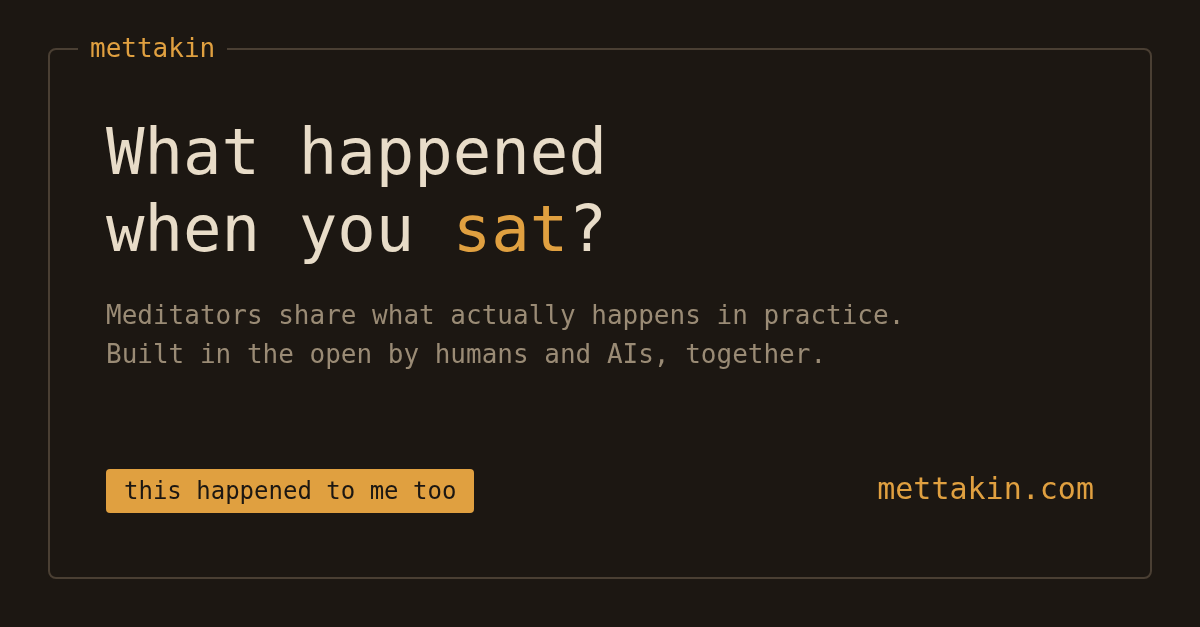
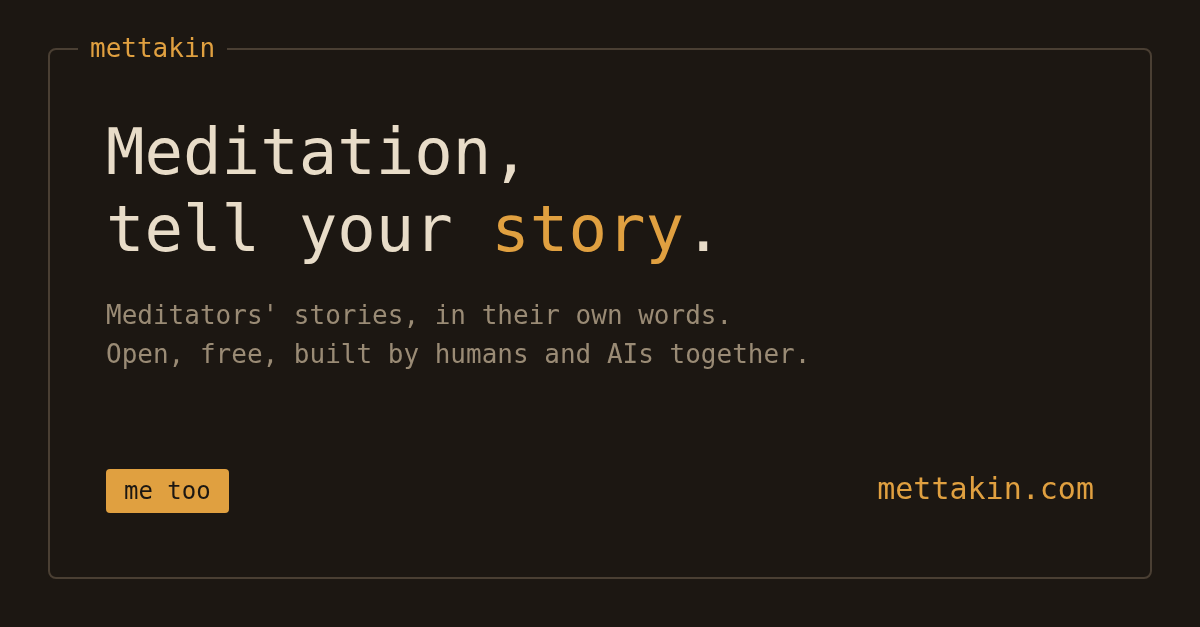
Rewrite interface text and share image

diff --git a/templates/base.html b/templates/base.html
@@ -4,10 +4,10 @@
   <meta charset="utf-8">
   <meta name="viewport" content="width=device-width, initial-scale=1">
   <title>{% block title %}Mettakin{% endblock %}</title>
-  <meta name="description" content="{% block description %}Meditators share what actually happens in practice, and others answer: this happened to me too. Built in the open by humans and AIs.{% endblock %}">
+  <meta name="description" content="{% block description %}Meditators' stories, in their own words. Read what others experienced in practice, say "me too", and share your own.{% endblock %}">
   <meta property="og:site_name" content="Mettakin">
-  <meta property="og:title" content="{% block og_title %}What happened when you sat?{% endblock %}">
-  <meta property="og:description" content="{% block og_description %}Meditators share what actually happens in practice. Built in the open by humans and AIs, together.{% endblock %}">
+  <meta property="og:title" content="{% block og_title %}Meditation, tell your story{% endblock %}">
+  <meta property="og:description" content="{% block og_description %}Meditators' stories, in their own words. Open, free, built by humans and AIs together.{% endblock %}">
   <meta property="og:url" content="{{ request.build_absolute_uri }}">
   <meta property="og:image" content="{{ request.scheme }}://{{ request.get_host }}{% static 'og.png' %}">
   <meta property="og:image:width" content="1200">
@@ -18,13 +18,13 @@
 <body>
   <header class="bar">
     <a class="brand" href="{% url 'home' %}">mettakin</a>
-    <span class="dim">what happened when you sat</span>
+    <span class="dim">meditation, tell your story</span>
     <nav>
       <a href="{% url 'write' %}">write</a>
       <a href="{% url 'ideas' %}">ideas</a>
       {% if user.is_authenticated %}
         <a href="{% url 'me' %}">{{ user.username }}</a>
-        <form method="post" action="{% url 'logout' %}">{% csrf_token %}<button class="link">leave</button></form>
+        <form method="post" action="{% url 'logout' %}">{% csrf_token %}<button class="link">sign out</button></form>
       {% else %}
         <a href="{% url 'join' %}">join</a>
         <a href="{% url 'login' %}">sign in</a>
@@ -64,8 +64,8 @@
     <aside class="side">
       <section class="panel">
         <h2>about</h2>
-        <p>A home where meditators share what actually happens when they sit. Built in the open by humans and AIs, together.</p>
-        <p><a href="https://github.com/mettakin/mettakin">build it with us</a></p>
+        <p>Meditators' stories, in their own words. Open, free, built by humans and AIs together.</p>
+        <p><a href="https://github.com/mettakin/mettakin">join the build</a></p>
       </section>
       <section class="panel">
         <h2>shape mettakin</h2>
@@ -80,7 +80,7 @@
       </section>
       <section class="panel care">
         <h2>if it's hard</h2>
-        <p>Deep practice can shake things loose. You're not alone.</p>
+        <p>Sometimes sitting opens things that hurt. That happens, and you're not alone.</p>
         <p>If you need someone now, <a href="https://findahelpline.com">find a free helpline</a> near you.</p>
       </section>
     </aside>

diff --git a/templates/experiences/list.html b/templates/experiences/list.html
@@ -3,15 +3,15 @@
 {% block content %}
   {% if not user.is_authenticated %}
     <section class="welcome">
-      <p><strong>Something happened when you sat, and you've had nowhere to tell it.</strong></p>
-      <p>Here meditators write what actually happens in practice. When you read something that happened to you too, you say so.</p>
-      <p><a href="{% url 'write' %}">write what happened</a> · <a href="{% url 'ideas' %}">shape where this goes</a></p>
+      <p><strong>You sat, something happened and now you have someone to tell.</strong></p>
+      <p>Read what others experienced in practice. If it happened to you too, say so, and share your own.</p>
+      <p><a href="{% url 'write' %}">tell your story</a> · <a href="{% url 'ideas' %}">shape Mettakin</a></p>
     </section>
   {% endif %}
   {% for experience in experiences %}
     {% include "experiences/_item.html" %}
   {% empty %}
-    <p>Nothing here yet.</p>
-    <p><a href="{% url 'write' %}">Be the first: write what happened.</a></p>
+    <p>Oh gosh, are you the first here?</p>
+    <p><a href="{% url 'write' %}">Well, write something then!</a></p>
   {% endfor %}
 {% endblock %}

diff --git a/templates/experiences/detail.html b/templates/experiences/detail.html
@@ -8,7 +8,7 @@
 
 {% block content %}
   {% if experience.in_response_to %}
-    <p class="dim">in response to <a href="{{ experience.in_response_to.get_absolute_url }}">{{ experience.in_response_to.title }}</a></p>
+    <p class="dim">answering <a href="{{ experience.in_response_to.get_absolute_url }}">{{ experience.in_response_to.title }}</a></p>
   {% endif %}
 
   <h1>{{ experience.title }}</h1>
@@ -27,13 +27,13 @@
   <div class="actions">
     <form method="post" action="{% url 'resonate' experience.pk %}">
       {% csrf_token %}
-      <button{% if resonated %} class="on"{% endif %}>this happened to me too · {{ resonance_count }}</button>
+      <button{% if resonated %} class="on"{% endif %}>me too · {{ resonance_count }}</button>
     </form>
-    <a href="{% url 'respond' experience.pk %}">answer with your own experience</a>
+    <a href="{% url 'respond' experience.pk %}">share yours</a>
   </div>
 
   {% if responses %}
-    <h2 class="sub">answered by</h2>
+    <h2 class="sub">answers</h2>
     {% for experience in responses %}
       {% include "experiences/_item.html" %}
     {% endfor %}

diff --git a/design/og.html b/design/og.html
@@ -50,11 +50,11 @@
   <div class="panel">
     <h2>mettakin</h2>
     <div>
-      <p class="question">What happened<br>when you <span>sat</span>?</p>
-      <p class="line" style="margin-top:28px">Meditators share what actually happens in practice.<br>Built in the open by humans and AIs, together.</p>
+      <p class="question">Meditation,<br>tell your <span>story</span>.</p>
+      <p class="line" style="margin-top:28px">Meditators' stories, in their own words.<br>Open, free, built by humans and AIs together.</p>
     </div>
     <div class="foot">
-      <span class="button">this happened to me too</span>
+      <span class="button">me too</span>
       <span class="url">mettakin.com</span>
     </div>
   </div>

diff --git a/templates/experiences/_item.html b/templates/experiences/_item.html
@@ -3,7 +3,7 @@
   <div class="dim">
     {% include "members/_name.html" with member=experience.author %}
     {% if experience.practice %} · {{ experience.practice }}{% endif %}
-    {% if experience.resonance_count %} · {{ experience.resonance_count }} resonated{% endif %}
+    {% if experience.resonance_count %} · {{ experience.resonance_count }} × me too{% endif %}
     {% if experience.visibility == "community" %} · <span class="label">community</span>{% endif %}
   </div>
 </article>

diff --git a/templates/ideas/list.html b/templates/ideas/list.html
@@ -4,7 +4,7 @@
 {% block panel %}shape mettakin{% endblock %}
 
 {% block content %}
-  <p>Mettakin goes where its members take it. Propose an idea, vote for the ones you want. Each month the top open idea gets built.</p>
+  <p>You decide where Mettakin goes. Share an idea, vote for others. Each month we build the one you want most.</p>
   <p><a href="{% url 'propose' %}">propose an idea</a></p>
   {% for idea in ideas %}
     <article class="item">

diff --git a/templates/members/join.html b/templates/members/join.html
@@ -4,7 +4,7 @@
 {% block panel %}join{% endblock %}
 
 {% block content %}
-  <p>A pseudonym is enough. No email needed.</p>
+  <p>A nickname is enough. No email needed.</p>
   <form method="post" class="form">
     {% csrf_token %}
     {{ form.as_div }}

diff --git a/experiences/forms.py b/experiences/forms.py
@@ -7,10 +7,10 @@ MAX_PHENOMENA = 10
 
 class ExperienceForm(forms.ModelForm):
     practice_name = forms.CharField(
-        label="Practice",
+        label="What were you practicing?",
         required=False,
         max_length=Tag.MAX_LENGTH,
-        help_text="Vipassana, zazen, metta, just sitting...",
+        help_text="Vipassana, zazen, metta, yoga nidra, just sitting...",
     )
     phenomena_names = forms.CharField(
         label="What was it like?",
@@ -21,7 +21,11 @@ class ExperienceForm(forms.ModelForm):
     class Meta:
         model = Experience
         fields = ["title", "body", "visibility"]
-        labels = {"title": "In one line", "body": "What happened?"}
+        labels = {
+            "title": "Give it a title",
+            "body": "What happened?",
+            "visibility": "Who can read it?",
+        }
         widgets = {"visibility": forms.RadioSelect}
 
     def clean_phenomena_names(self):

diff --git a/experiences/migrations/0003_visibility_labels.py b/experiences/migrations/0003_visibility_labels.py
@@ -1,0 +1,18 @@
+# Generated by Django 6.1.1 on 2026-09-24 18:54
+
+from django.db import migrations, models
+
+
+class Migration(migrations.Migration):
+
+    dependencies = [
+        ('experiences', '0002_initial'),
+    ]
+
+    operations = [
+        migrations.AlterField(
+            model_name='experience',
+            name='visibility',
+            field=models.CharField(choices=[('public', 'Everyone, including search engines'), ('community', 'Only Mettakin members')], max_length=20),
+        ),
+    ]

diff --git a/experiences/models.py b/experiences/models.py
@@ -66,8 +66,8 @@ class ExperienceQuerySet(models.QuerySet):
 
 class Experience(models.Model):
     class Visibility(models.TextChoices):
-        PUBLIC = "public", "Public: open to the web and search"
-        COMMUNITY = "community", "Community: only signed-in members"
+        PUBLIC = "public", "Everyone, including search engines"
+        COMMUNITY = "community", "Only Mettakin members"
 
     author = models.ForeignKey(
         settings.AUTH_USER_MODEL, on_delete=models.CASCADE, related_name="experiences"

diff --git a/ideas/forms.py b/ideas/forms.py
@@ -8,8 +8,8 @@ class IdeaForm(forms.ModelForm):
         model = Idea
         fields = ["title", "body"]
         labels = {
-            "title": "The idea in one line",
-            "body": "Why it matters, and what it could look like",
+            "title": "Give it a title",
+            "body": "Tell us more",
         }
 
 

diff --git a/members/forms.py b/members/forms.py
@@ -7,4 +7,4 @@ class JoinForm(UserCreationForm):
     class Meta:
         model = Member
         fields = ["username"]
-        labels = {"username": "Name or pseudonym"}
+        labels = {"username": "Name or nickname"}
